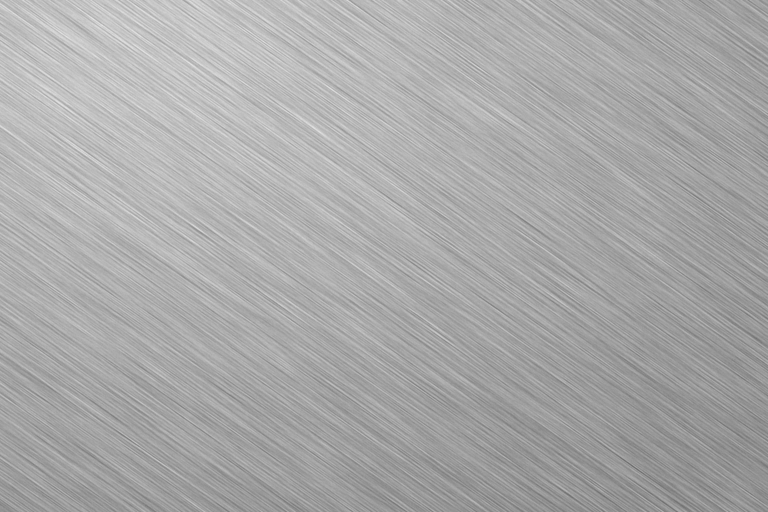
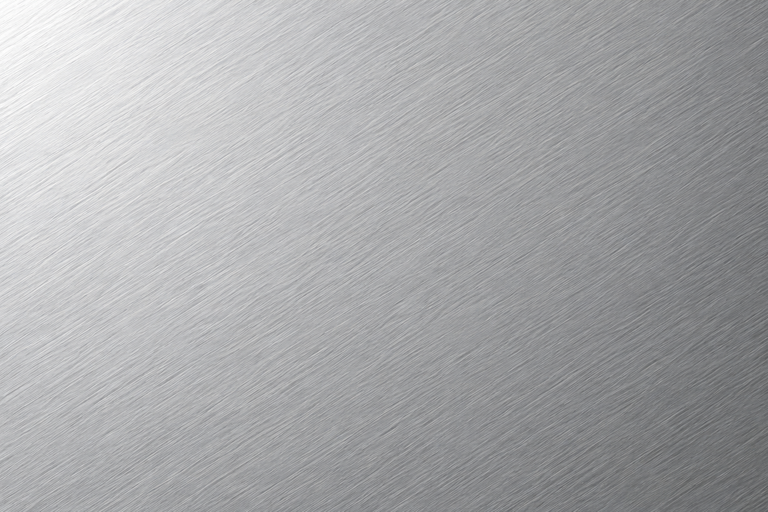
docs : 철학 방 목업과 장면 좌표
Claude-Session: https://claude.ai/code/session_01FjcchqztxWh8F2wPwjtDnt

diff --git a/docs/design/philosophy-room/mockup.html b/docs/design/philosophy-room/mockup.html
@@ -1,0 +1,168 @@
+<!doctype html>
+<html lang="ko">
+<head>
+<meta charset="utf-8" />
+<meta name="viewport" content="width=device-width, initial-scale=1" />
+<title>철학 방 목업</title>
+<link rel="preconnect" href="https://fonts.googleapis.com" />
+<link href="https://fonts.googleapis.com/css2?family=Cinzel:wght@600&family=Noto+Serif+KR:wght@700&display=swap" rel="stylesheet" />
+<style>
+  :root { --ease: cubic-bezier(0.22, 1, 0.36, 1); }
+  * { box-sizing: border-box; }
+  body { margin: 0; background: #1a1a1a; color: #e0e0e0; display: grid; gap: 48px; padding: 48px 24px; justify-items: center; }
+  .screen { position: relative; width: min(1280px, 100%); aspect-ratio: 16 / 9; overflow: hidden; background: #000; }
+  .screen > img.bg { position: absolute; inset: 0; width: 100%; height: 100%; object-fit: cover; }
+  .abs { position: absolute; }
+
+  /* 공용 버튼 : 홈 + 뒤로가기 */
+  .btn { position: absolute; left: 16px; width: 44px; height: 44px; border-radius: 12px; display: grid; place-items: center; color: #e0e0e0; background: rgba(255,255,255,.08); backdrop-filter: blur(8px); font-size: 20px; z-index: 5; }
+  .btn.home { top: 16px; } .btn.back { top: 68px; }
+
+  /* 갈림길 아치 */
+  .arch { cursor: pointer; border-radius: 48% 48% 0 0 / 26% 26% 0 0; transition: background .6s var(--ease); }
+  .arch:hover { background: radial-gradient(ellipse at 50% 70%, rgba(255,214,150,.16), transparent 70%); }
+
+  /* 문 */
+  .door { cursor: pointer; perspective: 1200px; overflow: hidden; }
+  .door .behind { position: absolute; inset: 0; background-size: cover; background-position: center; filter: blur(5px) brightness(.85); transform: scale(1.1); }
+  .door .glow { position: absolute; inset: 0; background: radial-gradient(ellipse at 50% 95%, rgba(255,207,138,.55), rgba(255,180,90,.15) 45%, transparent 70%); opacity: 0; transition: opacity .6s var(--ease); }
+  .door .leaf { position: absolute; top: 0; bottom: 0; width: 50%; background-repeat: no-repeat; transition: transform .6s var(--ease); }
+  .door .leaf.l { left: 0; } .door .leaf.r { right: 0; }
+  .west .door { border-radius: 50% 50% 0 0 / 22% 22% 0 0; }
+  .west .door .leaf.l { transform-origin: left center; }
+  .west .door .leaf.r { transform-origin: right center; }
+  .west .door:hover .leaf.l { transform: rotateY(72deg); }
+  .west .door:hover .leaf.r { transform: rotateY(-72deg); }
+  .east .door:hover .leaf.l { transform: translateX(-100%); }
+  .east .door:hover .leaf.r { transform: translateX(100%); }
+  .door:hover .glow { opacity: 1; }
+  .floorglow { pointer-events: none; background: radial-gradient(ellipse at 50% 0%, rgba(255,200,120,.35), transparent 70%); opacity: 0; transition: opacity .6s var(--ease); }
+
+  /* 명판 */
+  .plaque { pointer-events: none; overflow: hidden; display: grid; place-items: center; color: #fff; border-radius: 2px;
+    background: url(PLATE) center / cover; text-shadow: 0 1px 2px rgba(0,0,0,.75), 0 0 1px rgba(0,0,0,.6);
+    filter: brightness(.78); transition: filter .5s var(--ease); }
+  .plaque::after { content: ""; position: absolute; top: -40%; bottom: -40%; width: 40%; left: -60%; background: linear-gradient(105deg, transparent, rgba(255,255,255,.5), transparent); transform: skewX(-12deg); }
+  .plaque.lit { filter: brightness(1); } .plaque.lit::after { animation: sweep .9s var(--ease) forwards; }
+  .west .plaque { font-family: Cinzel, serif; font-weight: 600; letter-spacing: .08em; font-size: clamp(6px, .9vw, 12px); }
+  .east .plaque { font-family: 'Noto Serif KR', serif; font-weight: 700; font-size: clamp(12px, 2.2vw, 28px); }
+  @keyframes sweep { to { left: 130%; } }
+
+  /* 전시실 : 불 꺼진 방 + 스포트라이트 */
+  .room .dark { filter: brightness(.22); }
+  .room .lit { position: absolute; inset: 0; width: 100%; height: 100%; object-fit: cover;
+    -webkit-mask-image: radial-gradient(circle at var(--sx) var(--sy), #000 var(--sr), transparent calc(var(--sr) + 14%));
+    mask-image: radial-gradient(circle at var(--sx) var(--sy), #000 var(--sr), transparent calc(var(--sr) + 14%));
+    transition: --sr .9s var(--ease); }
+  @property --sr { syntax: '<percentage>'; inherits: true; initial-value: 0%; }
+  .frame { cursor: pointer; padding: .45%; border-radius: 1px; opacity: .3; transition: opacity .7s var(--ease); }
+  .frame.on { opacity: 1; }
+  .west .frame { background: linear-gradient(135deg, #8a6a2a, #d8b15e 35%, #7a5a20 65%, #c9a14f); box-shadow: 0 6px 16px rgba(0,0,0,.6); }
+  .east .frame { background: #2a1a10; box-shadow: 0 6px 16px rgba(0,0,0,.6); }
+  .frame .canvas { width: 100%; height: 100%; background: radial-gradient(ellipse at 50% 38%, #b48a5c 0 16%, transparent 17%), radial-gradient(ellipse at 50% 92%, #5a3a22 0 38%, transparent 39%), linear-gradient(#3a2a1c, #1f150d); }
+  .frame.empty .canvas { background: #d9d0bf; }
+  .label { position: absolute; left: 50%; top: calc(100% + 6px); transform: translateX(-50%); padding: 2px 10px; white-space: nowrap; color: #fff; background: url(PLATE) center / cover; text-shadow: 0 1px 2px rgba(0,0,0,.75); font-family: Cinzel, serif; font-weight: 600; letter-spacing: .1em; font-size: clamp(7px, .9vw, 12px); opacity: 0; transition: opacity .4s var(--ease); }
+  .frame.on .label { opacity: 1; }
+
+  /* 모바일 */
+  .phone { width: 390px; height: 844px; border-radius: 36px; border: 10px solid #2a2a2a; overflow-x: auto; overflow-y: hidden; position: relative; background: #000; }
+  .phone .pan { position: relative; aspect-ratio: 16 / 9; height: 100%; }
+  .phone .btn { position: sticky; float: left; margin: 16px 0 0 16px; }
+  .phone .pan > img { width: 100%; height: 100%; object-fit: cover; }
+  .phone .plaque { filter: brightness(1); }
+</style>
+</head>
+<body>
+
+<!-- 1. 갈림길 -->
+<section class="screen">
+  <img class="bg" src="IMG_01-crossroads" alt="" />
+  <a class="btn home" aria-label="홈으로">⌂</a>
+  <div class="abs arch" style="left:10%;top:14%;width:22%;height:60%"></div>
+  <div class="abs arch" style="left:68%;top:14%;width:24%;height:60%"></div>
+</section>
+
+<!-- 2. 서양관 홀 / 3. 동양관 홀 : 문은 스크립트로 채운다 -->
+<section class="screen west" data-hall="west"><img class="bg" src="IMG_02-west-hall" alt="" /><a class="btn home">⌂</a><a class="btn back">←</a></section>
+<section class="screen east" data-hall="east"><img class="bg" src="IMG_03-east-hall" alt="" /><a class="btn home">⌂</a><a class="btn back">←</a></section>
+
+<!-- 4. 고대 전시실 / 5. 중세 전시실 (빈 방) -->
+<section class="screen room west" data-room="ancient"><img class="bg dark" src="IMG_10-west-ancient" alt="" /><img class="lit" src="IMG_10-west-ancient" alt="" /><a class="btn home">⌂</a><a class="btn back">←</a></section>
+<section class="screen room west" data-room="medieval"><img class="bg dark" src="IMG_11-west-medieval" alt="" /><img class="lit" src="IMG_11-west-medieval" alt="" /><a class="btn home">⌂</a><a class="btn back">←</a></section>
+<section class="screen room east" data-room="confucian"><img class="bg dark" src="IMG_20-east-confucian" alt="" /><img class="lit" src="IMG_20-east-confucian" alt="" /><a class="btn home">⌂</a><a class="btn back">←</a></section>
+
+<!-- 6. 모바일 : 동양관 홀, 가운데에서 시작해 좌우로 끌어 본다 -->
+<div class="phone" id="phone"><div class="pan east" data-hall="east" data-phone><img src="IMG_03-east-hall" alt="" /></div></div>
+
+<script>
+  const Doors = {
+    west: [[6.4,17.6,15.6,58.4],[31.4,21.6,14.3,54],[54.3,21.6,14.3,54],[78,17.6,15.6,58.4]],
+    east: [[10,32.5,12.3,39.5],[33.5,35,11.5,36.5],[55.4,35,11.1,36.5],[77.8,32.5,12.2,39.5]],
+  }
+  const Labels = { west: ['ANCIENT','MEDIEVAL','MODERN','CONTEMPORARY'], east: ['儒','道','佛','百'] }
+  const Rooms = { west: ['IMG_10-west-ancient','IMG_11-west-medieval','IMG_12-west-modern','IMG_13-west-contemporary'], east: ['IMG_20-east-confucian','IMG_21-east-daoist','IMG_22-east-buddhist','IMG_23-east-hundred'] }
+
+  document.querySelectorAll('[data-hall]').forEach((S) => {
+    const wing = S.dataset.hall
+    const hallSrc = S.querySelector('img').src
+    Doors[wing].forEach(([x, y, w, h], i) => {
+      const D = document.createElement('div')
+      D.className = 'abs door'
+      Object.assign(D.style, { left: x + '%', top: y + '%', width: w + '%', height: h + '%' })
+      const bgSize = `${(100 / w) * 100}% ${(100 / h) * 100}%`
+      const leaf = (side, offX) => `<div class="leaf ${side}" style="background-image:url(${hallSrc});background-size:${(100 / (w / 2)) * 100}% ${(100 / h) * 100}%;background-position:${((x + offX) / (100 - w / 2)) * 100}% ${(y / (100 - h)) * 100}%"></div>`
+      D.innerHTML = `<div class="behind" style="background-image:url(${Rooms[wing][i]})"></div><div class="glow"></div>` + leaf('l', 0) + leaf('r', w / 2)
+      const P = document.createElement('div')
+      P.className = 'abs plaque'
+      const pw = wing === 'west' ? 11 : 4, ph = wing === 'west' ? 3.8 : 5.6, gap = wing === 'west' ? 6.4 : 7.6
+      Object.assign(P.style, { left: x + w / 2 - pw / 2 + '%', top: y - gap + '%', width: pw + '%', height: ph + '%' })
+      P.textContent = Labels[wing][i]
+      const F = document.createElement('div')
+      F.className = 'abs floorglow'
+      Object.assign(F.style, { left: x - w * 0.3 + '%', top: y + h + '%', width: w * 1.6 + '%', height: '18%' })
+      D.addEventListener('mouseenter', () => { P.classList.remove('lit'); void P.offsetWidth; P.classList.add('lit'); F.style.opacity = 1 })
+      D.addEventListener('mouseleave', () => { P.classList.remove('lit'); F.style.opacity = 0 })
+      S.append(F, D, P)
+    })
+  })
+
+  // 전시실 : hang.ts 와 같은 규칙으로 계산한 자리
+  const Walls = { ancient: [12,12,76,46], medieval: [12,10,74,54], confucian: [16,11,68,47] }
+  const People = {
+    ancient: [['SOCRATES',3],['PLATO',3],['ARISTOTLE',3],['THALES',1],['PYTHAGORAS',1],['HERACLITUS',1],['PARMENIDES',1],['DEMOCRITUS',1]],
+    medieval: [],
+    confucian: [['孔子',3],['孟子',3],['荀子',3],['朱熹',2],['李滉',2],['李珥',2]],
+  }
+  const WidthOf = { 3: .16, 2: .11, 1: .07 }
+  const hang = (list, [wx, wy, ww, wh]) => {
+    const Items = list.length ? list.map(([l, wt]) => ({ l, wt })) : [{ l: null, wt: 2 }, { l: null, wt: 2 }, { l: null, wt: 2 }]
+    const top = Math.max(...Items.map((i) => i.wt))
+    const Mid = Items.filter((i) => i.wt === top), Rest = Items.filter((i) => i.wt !== top).sort((a, b) => b.wt - a.wt)
+    const Up = [], Down = []; Rest.forEach((it, i) => (i % 2 ? Down : Up).push(it))
+    const Rows = [Up, Mid, Down]
+    let s = 1
+    const lay = (r) => { const Sz = r.map((i) => { const w = ww * WidthOf[i.wt] * s; return { w, h: w * 1.25 * 16 / 9 } }); const g = Math.max(0, ...Sz.map((z) => z.w)) * .25; return { Sz, g, W: Sz.reduce((a, z) => a + z.w, 0) + g * Math.max(0, r.length - 1), H: Math.max(0, ...Sz.map((z) => z.h)) } }
+    let L
+    for (;;) { L = Rows.map(lay); const fy = L[1].H + 2 * Math.max(L[0].H + (Up.length ? 5.5 : 0), L[2].H + (Down.length ? 5.5 : 0)) <= wh; if ((L.every((l) => l.W <= ww) && fy) || s < .05) break; s *= .95 }
+    const my = wy + wh / 2, T = [my - L[1].H / 2 - 5.5 - L[0].H, my - L[1].H / 2, my + L[1].H / 2 + 5.5]
+    const Out = []
+    Rows.forEach((r, ri) => { let x = wx + (ww - L[ri].W) / 2; r.forEach((it, i) => { const z = L[ri].Sz[i]; const y = ri === 0 ? T[0] + L[0].H - z.h : ri === 1 ? T[1] + (L[1].H - z.h) / 2 : T[2]; Out.push({ ...it, x, y, w: z.w, h: z.h }); x += z.w + L[ri].g }) })
+    return Out
+  }
+  document.querySelectorAll('[data-room]').forEach((S) => {
+    const room = S.dataset.room
+    S.style.setProperty('--sx', '50%'); S.style.setProperty('--sy', '40%')
+    hang(People[room], Walls[room]).forEach((f) => {
+      const F = document.createElement('div')
+      F.className = 'abs frame' + (f.l ? '' : ' empty')
+      Object.assign(F.style, { left: f.x + '%', top: f.y + '%', width: f.w + '%', height: f.h + '%' })
+      F.innerHTML = `<div class="canvas"></div>` + (f.l ? `<div class="label">${f.l}</div>` : '')
+      F.addEventListener('mouseenter', () => { S.style.setProperty('--sx', f.x + f.w / 2 + '%'); S.style.setProperty('--sy', f.y + f.h / 2 + '%'); S.style.setProperty('--sr', Math.max(f.w, f.h) * .9 + '%'); F.classList.add('on') })
+      F.addEventListener('mouseleave', () => { S.style.setProperty('--sr', '0%'); F.classList.remove('on') })
+      S.append(F)
+    })
+  })
+  const Ph = document.getElementById('phone'); Ph.scrollLeft = (Ph.scrollWidth - Ph.clientWidth) / 2
+</script>
+</body>
+</html>

diff --git a/apps/site/src/sections/philosophy/scenes.ts b/apps/site/src/sections/philosophy/scenes.ts
@@ -1,0 +1,73 @@
+// 장면 사진 위의 자리 : 모두 사진 (1536 × 864) 기준 % 로 잰 값
+import type { ImageMetadata } from 'astro'
+import Crossroads from './assets/01-crossroads.png'
+import WestHall from './assets/02-west-hall.png'
+import EastHall from './assets/03-east-hall.png'
+import Ancient from './assets/10-west-ancient.png'
+import Medieval from './assets/11-west-medieval.png'
+import Modern from './assets/12-west-modern.png'
+import Contemporary from './assets/13-west-contemporary.png'
+import Confucian from './assets/20-east-confucian.png'
+import Daoist from './assets/21-east-daoist.png'
+import Buddhist from './assets/22-east-buddhist.png'
+import Hundred from './assets/23-east-hundred.png'
+import type { Rect, RoomId, Scene, Wing } from './types'
+
+// 갈림길의 아치 : 왼쪽이 동양관, 오른쪽이 서양관
+export const CrossroadsArches: Record<Wing, Rect> = {
+  east: { x: 10, y: 14, w: 22, h: 60 },
+  west: { x: 68, y: 14, w: 24, h: 60 },
+}
+
+// 홀의 문짝 영역 (RoomsOf 순서) : 서양관은 위쪽이 반원 아치, 동양관은 창살 부분
+export const HallDoors: Record<Wing, Rect[]> = {
+  west: [
+    { x: 6.4, y: 17.6, w: 15.6, h: 58.4 },
+    { x: 31.4, y: 21.6, w: 14.3, h: 54 },
+    { x: 54.3, y: 21.6, w: 14.3, h: 54 },
+    { x: 78, y: 17.6, w: 15.6, h: 58.4 },
+  ],
+  east: [
+    { x: 10, y: 32.5, w: 12.3, h: 39.5 },
+    { x: 33.5, y: 35, w: 11.5, h: 36.5 },
+    { x: 55.4, y: 35, w: 11.1, h: 36.5 },
+    { x: 77.8, y: 32.5, w: 12.2, h: 39.5 },
+  ],
+}
+
+// 문 위 명판 자리 : 서양관은 가로형, 동양관은 한자 한 글자가 들어가는 작은 판
+export const HallPlaques: Record<Wing, Rect[]> = {
+  west: HallDoors.west.map((d) => ({ x: d.x + d.w / 2 - 5.5, y: d.y - 6.4, w: 11, h: 3.8 })),
+  east: HallDoors.east.map((d) => ({ x: d.x + d.w / 2 - 2, y: d.y - 7.6, w: 4, h: 5.6 })),
+}
+
+// 액자를 걸 벽 영역 (빛 웅덩이 띠, 벤치 위)
+export const RoomWalls: Record<RoomId, Rect> = {
+  ancient: { x: 12, y: 12, w: 76, h: 46 },
+  medieval: { x: 12, y: 10, w: 74, h: 54 },
+  modern: { x: 8, y: 10, w: 84, h: 42 },
+  contemporary: { x: 11, y: 13, w: 77, h: 49 },
+  confucian: { x: 16, y: 11, w: 68, h: 47 },
+  daoist: { x: 13, y: 13, w: 78, h: 49 },
+  buddhist: { x: 12, y: 10, w: 76, h: 52 },
+  hundred: { x: 12, y: 10, w: 76, h: 44 },
+}
+
+const RoomImages: Record<RoomId, ImageMetadata> = {
+  ancient: Ancient,
+  medieval: Medieval,
+  modern: Modern,
+  contemporary: Contemporary,
+  confucian: Confucian,
+  daoist: Daoist,
+  buddhist: Buddhist,
+  hundred: Hundred,
+}
+
+export const roomImage = (room: RoomId): ImageMetadata => RoomImages[room]
+
+export const SceneImage = (s: Scene): ImageMetadata => {
+  if (s.kind === 'crossroads') return Crossroads
+  if (s.kind === 'hall') return s.wing === 'west' ? WestHall : EastHall
+  return RoomImages[s.room]
+}

diff --git a/apps/site/src/sections/philosophy/hang.ts b/apps/site/src/sections/philosophy/hang.ts
@@ -9,7 +9,7 @@ const Portrait = 1.25
 const Aspect = 16 / 9
 // 액자 사이 가로 간격 (그 줄에서 가장 넓은 액자 폭 대비) 과 줄 사이 세로 간격 (%)
 const GapX = 0.25
-const GapY = 3
+const GapY = 5.5
 
 interface Item {
   id: string | null

diff --git a/docs/design/philosophy-room/README.md b/docs/design/philosophy-room/README.md
@@ -1,0 +1,14 @@
+# 철학 방 디자인
+
+설계 : `docs/superpowers/specs/2026-11-25-philosophy-room-design.md`
+장면 원본 : Figma "yeonbora-site · 철학 방 장면"
+
+`mockup.html` 은 저장소의 실제 장면 사진 (`apps/site/src/sections/philosophy/assets/`) 을 그대로 불러 쓰는 시안이다. 문 · 명판 · 액자 위치는 `scenes.ts` 와 같은 값이고, 액자 배치는 `hang.ts` 와 같은 규칙이다. 초상화는 아직 자리표시 그림이다 (Task 6 에서 퍼블릭 도메인 회화로 바꾼다).
+
+## 목업에서 정한 것
+- 서양관 명판은 문 아치 위, 폭 11% · 높이 3.8%. CONTEMPORARY 가 들어가도록 넷 다 같은 폭.
+- 동양관 명판은 문틀 위, 한자 한 글자가 들어가는 작은 판 (설계의 세로형 대신). 문틀 위 공간이 낮아서.
+- 액자 줄 사이 간격 5.5% : 호버하면 나타나는 이름표가 아래 줄 액자를 가리지 않게.
+
+## 승인
+- (관리자님 승인 뒤 적는다)
